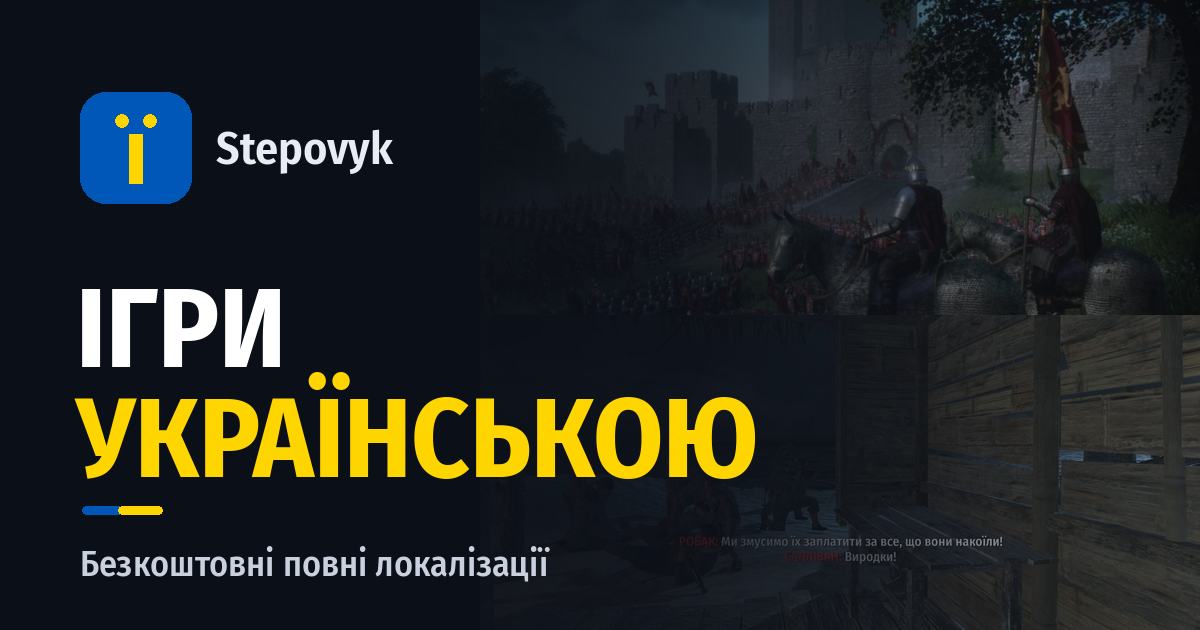
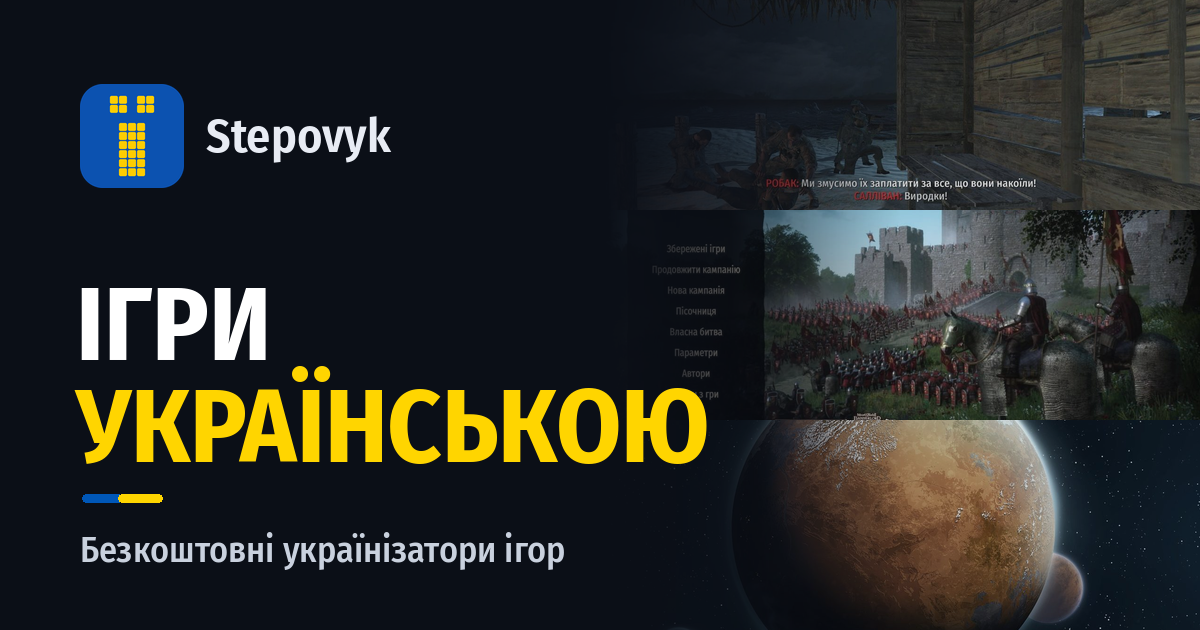
Новий знак «Ї» хрестиком, кадри з ігор на першому екрані, Steppe, пошук і іконки

diff --git a/index.html b/index.html
@@ -3,15 +3,15 @@
 <head>
 <meta charset="utf-8">
 <meta name="viewport" content="width=device-width, initial-scale=1">
-<title>Ігри українською – Stepovyk</title>
-<meta name="description" content="Безкоштовні повні українські локалізації ігор: Call of Duty: World at War, Mount & Blade II: Bannerlord, RimWorld. Далі – уся серія Call of Duty і дубляж Bannerlord.">
+<title>Ігри українською – українізатори від Stepovyk</title>
+<meta name="description" content="Безкоштовні українізатори ігор від Stepovyk: Call of Duty: World at War, Mount & Blade II: Bannerlord, RimWorld. Повний переклад, нові шрифти, встановлення за хвилину. Далі – уся серія Call of Duty і дубляж Bannerlord.">
 <link rel="canonical" href="https://stepovyk.github.io/">
 <meta name="theme-color" content="#0b0f17">
 <meta name="color-scheme" content="dark">
 <meta property="og:type" content="website">
 <meta property="og:locale" content="uk_UA">
 <meta property="og:site_name" content="Ігри українською">
-<meta property="og:title" content="Ігри українською – Stepovyk">
+<meta property="og:title" content="Ігри українською – українізатори від Stepovyk">
 <meta property="og:description" content="Безкоштовні повні українські локалізації: Call of Duty: World at War і Mount & Blade II: Bannerlord, RimWorld. Далі – уся серія Call of Duty.">
 <meta property="og:url" content="https://stepovyk.github.io/">
 <meta property="og:image" content="https://stepovyk.github.io/assets/og.png">
@@ -19,7 +19,10 @@
 <meta property="og:image:height" content="630">
 <meta name="twitter:card" content="summary_large_image">
 <link rel="icon" href="assets/icon.svg" type="image/svg+xml">
+<link rel="icon" href="favicon.png" type="image/png" sizes="64x64">
 <link rel="apple-touch-icon" href="assets/apple-touch-icon.png">
+<link rel="manifest" href="site.webmanifest">
+<script type="application/ld+json">{"@context":"https://schema.org","@graph":[{"@type":"WebSite","name":"Ігри українською","url":"https://stepovyk.github.io/","inLanguage":"uk"},{"@type":"Person","name":"Stepovyk","url":"https://stepovyk.github.io/","image":"https://stepovyk.github.io/assets/avatar-512.png","sameAs":["https://t.me/stepovyk_ua","https://github.com/stepovyk","https://www.nexusmods.com/users/174402135"]}]}</script>
 <link rel="preconnect" href="https://fonts.googleapis.com">
 <link rel="preconnect" href="https://fonts.gstatic.com" crossorigin>
 <link href="https://fonts.googleapis.com/css2?family=Fira+Sans+Condensed:wght@600;700&family=Fira+Sans:wght@400;500&display=swap" rel="stylesheet">
@@ -63,9 +66,15 @@ header{position:sticky;top:0;z-index:10;background:rgb(11 15 23 / .82);backdrop-
 .btns{display:flex;flex-wrap:wrap;gap:10px}
 
 /* перший екран */
-.hero{padding:clamp(56px,10vw,112px) 0 clamp(16px,3vw,32px)}
-h1{font:700 clamp(46px,12vw,128px)/.92 var(--head);margin:0 0 24px;text-transform:uppercase;letter-spacing:-.01em}
+.hero{padding:clamp(48px,8vw,104px) 0 clamp(16px,3vw,32px);display:grid;grid-template-columns:minmax(0,1fr) minmax(0,1fr);gap:clamp(28px,4vw,56px);align-items:center}
+@media (max-width:900px){.hero{grid-template-columns:1fr}}
+.collage{display:grid;grid-template-columns:1.35fr 1fr;grid-template-rows:1fr 1fr;gap:12px;aspect-ratio:16/11}
+.collage img{width:100%;height:100%;object-fit:cover;border-radius:16px;box-shadow:0 0 0 1px var(--line),0 18px 40px rgb(0 0 0 / .4)}
+.collage img:first-child{grid-row:1 / span 2}
+.hero-text{min-width:0}
+h1{font:700 clamp(46px,12vw,112px)/.92 var(--head);margin:0 0 24px;text-transform:uppercase;letter-spacing:-.01em}
 h1 span{display:block;color:var(--yellow)}
+@media (min-width:901px){h1{font-size:clamp(60px,7.2vw,84px)}}
 .flag{display:flex;width:80px;height:8px;border-radius:4px;overflow:hidden;margin:0 0 24px}
 .flag::before,.flag::after{content:"";flex:1}
 .flag::before{background:var(--blue)}.flag::after{background:var(--yellow)}
@@ -101,6 +110,13 @@ h3{font:700 clamp(26px,3.4vw,32px)/1.05 var(--head);margin:0}
 @keyframes pulse{70%{box-shadow:0 0 0 8px rgb(255 213 0 / 0)}100%{box-shadow:0 0 0 0 rgb(255 213 0 / 0)}}
 .card p{margin:0;color:var(--muted)}
 .card .btns{margin-top:auto}
+
+/* Steppe */
+#steppe{padding-top:0}
+.steppe{display:flex;flex-wrap:wrap;align-items:center;justify-content:space-between;gap:20px 32px;padding:clamp(24px,4vw,40px);border-radius:var(--r);background:linear-gradient(160deg,var(--surface-2),var(--surface));box-shadow:inset 0 0 0 1px var(--line)}
+.steppe>div{flex:1 1 420px;min-width:0}
+.steppe img{height:clamp(44px,6vw,64px);width:auto;margin:0 0 16px}
+.steppe p{margin:0;color:var(--muted);max-width:56ch;text-wrap:pretty}
 
 /* підтримка */
 .support{border-radius:28px;padding:clamp(28px,5vw,56px);background:linear-gradient(135deg,#0a3f84,var(--blue) 60%,#0b4a9a)}
@@ -139,6 +155,7 @@ footer{padding:40px 0 56px;color:var(--muted);font-size:15px}
 
 <main id="top">
   <div class="wrap hero">
+    <div class="hero-text">
     <h1>Ігри<span>українською</span></h1>
     <div class="flag" aria-hidden="true"></div>
     <p class="lead">Повні українські локалізації ігор. Безкоштовно, з встановленням за хвилину.</p>
@@ -148,6 +165,12 @@ footer{padding:40px 0 56px;color:var(--muted);font-size:15px}
         <svg viewBox="0 0 24 24" fill="none" stroke="currentColor" stroke-width="2" stroke-linecap="round" stroke-linejoin="round" aria-hidden="true"><path d="M4 12v7a1 1 0 0 0 1 1h14a1 1 0 0 0 1-1v-7"/><path d="M16 6l-4-4-4 4"/><path d="M12 2v14"/></svg>
         Поділитися
       </button>
+    </div>
+    </div>
+    <div class="collage" aria-hidden="true">
+      <img src="assets/waw-640.jpg" srcset="assets/waw-640.jpg 640w, assets/waw.jpg 1280w" sizes="(max-width:900px) 60vw, 330px" alt="" width="640" height="360">
+      <img src="assets/bannerlord-640.jpg" alt="" width="640" height="360">
+      <img src="assets/rimworld-card-640.jpg" alt="" width="640" height="360">
     </div>
   </div>
 
@@ -186,7 +209,7 @@ footer{padding:40px 0 56px;color:var(--muted);font-size:15px}
             </ul>
             <p>20 965 рядків. Назви й імена відмінюються самі: «захопили Тисмил», «у Вландії».</p>
             <div class="btns">
-              <a class="btn btn-y" href="https://steamcommunity.com/sharedfiles/filedetails/?id=3823641704">Steam Workshop</a>
+              <a class="btn btn-y" href="https://github.com/stepovyk/bannerlord-ukrainian/releases/latest">Завантажити</a>
               <a class="btn btn-g" href="https://www.nexusmods.com/mountandblade2bannerlord/mods/14111">Nexus Mods</a>
               <a class="btn btn-g" href="https://github.com/stepovyk/bannerlord-ukrainian">GitHub</a>
             </div>
@@ -230,6 +253,18 @@ footer{padding:40px 0 56px;color:var(--muted);font-size:15px}
           <p>Повна українська озвучка: свій голос кожному персонажу, чиста вимова й правильні наголоси.</p>
           <div class="btns"><a class="btn btn-g" href="https://t.me/stepovyk_ua">Стежити в Telegram</a></div>
         </div>
+      </div>
+    </div>
+  </section>
+
+  <section id="steppe">
+    <div class="wrap">
+      <div class="steppe rise">
+        <div>
+          <img src="assets/steppe-logo.png" alt="Steppe" width="328" height="80" loading="lazy">
+          <p>Ще від Stepovyk: прості й гарні застосунки для Android, без реклами й стеження. «Копійка» для обліку витрат, «Смак» для рецептів і браузер «Обрій».</p>
+        </div>
+        <a class="btn btn-g" href="https://www.steppe.workers.dev">Сайт Steppe</a>
       </div>
     </div>
   </section>

diff --git a/404.html b/404.html
@@ -1,0 +1,26 @@
+<!doctype html>
+<html lang="uk">
+<head>
+<meta charset="utf-8">
+<meta name="viewport" content="width=device-width, initial-scale=1">
+<title>Сторінку не знайдено – Stepovyk</title>
+<meta name="robots" content="noindex">
+<meta name="color-scheme" content="dark">
+<link rel="icon" href="/assets/icon.svg" type="image/svg+xml">
+<style>
+body{margin:0;min-height:100vh;display:grid;place-items:center;background:#0b0f17;color:#eef2f8;font:400 18px/1.5 system-ui,sans-serif;text-align:center;padding:16px;box-sizing:border-box}
+img{width:96px;height:96px;margin:0 auto 24px;display:block}
+h1{font:700 40px/1.1 system-ui,sans-serif;margin:0 0 12px}
+p{color:#a3aec0;margin:0 0 28px}
+a{display:inline-flex;align-items:center;min-height:48px;padding:0 24px;border-radius:999px;background:#ffd500;color:#14161a;font-weight:700;text-decoration:none}
+</style>
+</head>
+<body>
+<main>
+  <img src="/assets/icon.svg" alt="">
+  <h1>Такої сторінки немає</h1>
+  <p>Усі переклади – на головній.</p>
+  <a href="/">На головну</a>
+</main>
+</body>
+</html>
